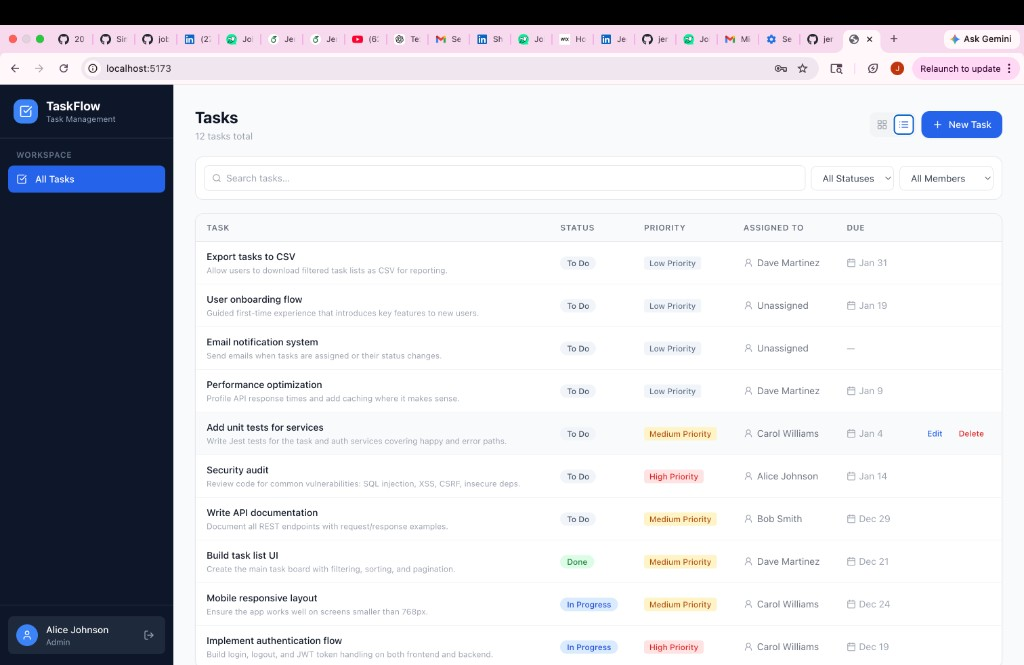
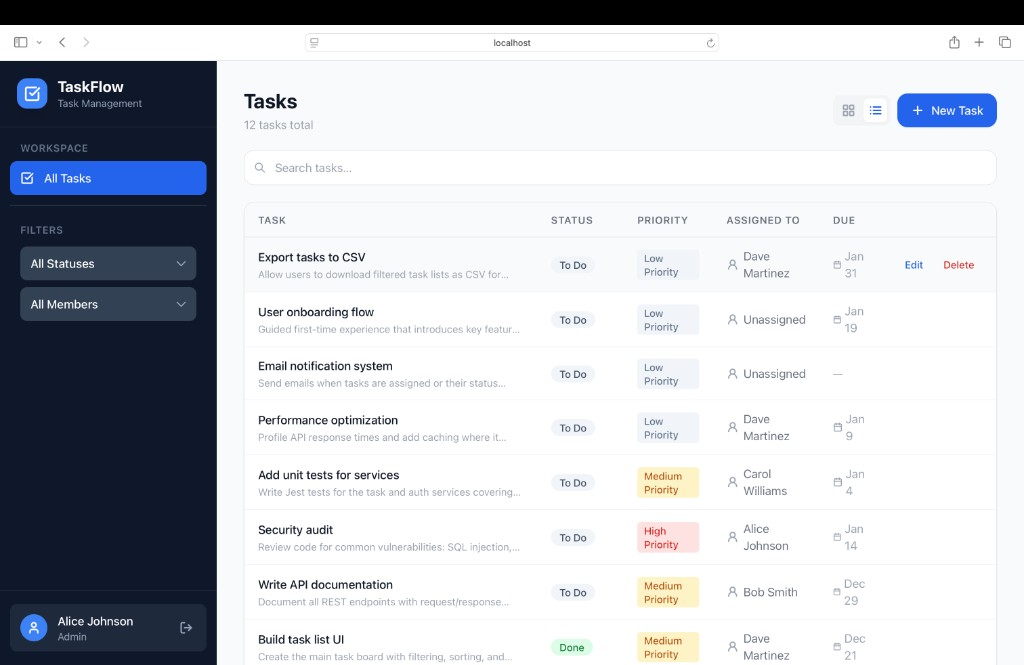
Update screenshots and README: new dashboard images, updated RBAC section

diff --git a/README.md b/README.md
@@ -6,18 +6,6 @@ A full-stack task management app built for the Microchip Technology engineering 
 
 ## Screenshots
 
-**Login Page**
-
-![Login Page](screenshots/01-login.png)
-
-**Form Validation — Empty Fields**
-
-![Form Validation](screenshots/02-login-validation.png)
-
-**Inline Error — Wrong Credentials**
-
-![Login Error](screenshots/03-login-error.png)
-
 **Task Dashboard — Grid View**
 
 ![Dashboard Grid](screenshots/04-dashboard-grid.png)
@@ -169,9 +157,16 @@ Each card shows title, description, status, priority, assignee, and due date. Du
 
 ### Role-Based Access
 
-Admins can edit and delete any task. Members can only edit and delete tasks that are assigned to them.
+| Action      | Admin | Creator | Assignee | Other member |
+|-------------|-------|---------|----------|--------------|
+| Create task | Yes   | —       | —        | Yes          |
+| Assign task | Any   | Any     | Any      | Any          |
+| Edit task   | Yes   | Yes     | Yes      | No           |
+| Delete task | Yes   | No      | No       | No           |
 
-The edit and delete buttons are visible to everyone. For tasks a member can't act on, the buttons are grayed out and disabled with a tooltip that explains why. Access is also enforced on the backend — calling the API directly with a member token on a restricted task returns a 403.
+Anyone can create a task and assign it to any team member. Creators and assignees can edit their tasks. Only admins can delete tasks.
+
+Edit and delete buttons are visible to everyone. Buttons that a user doesn't have permission to use are grayed out and disabled, with a tooltip explaining why. The same rules are enforced on the backend — the API returns 403 if a member tries to act on a task they don't own.
 
 ### Responsive Design
 - Sidebar on desktop (768px and wider)
